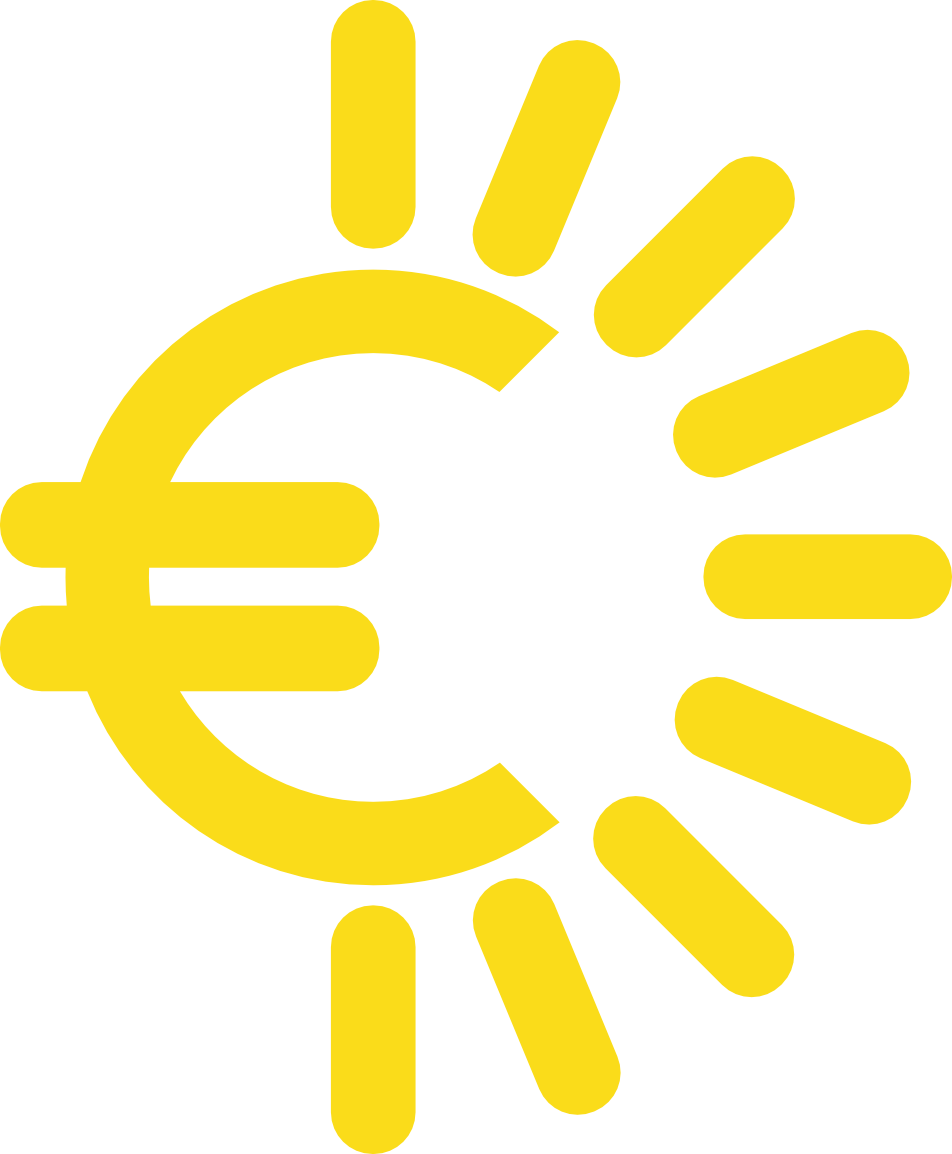
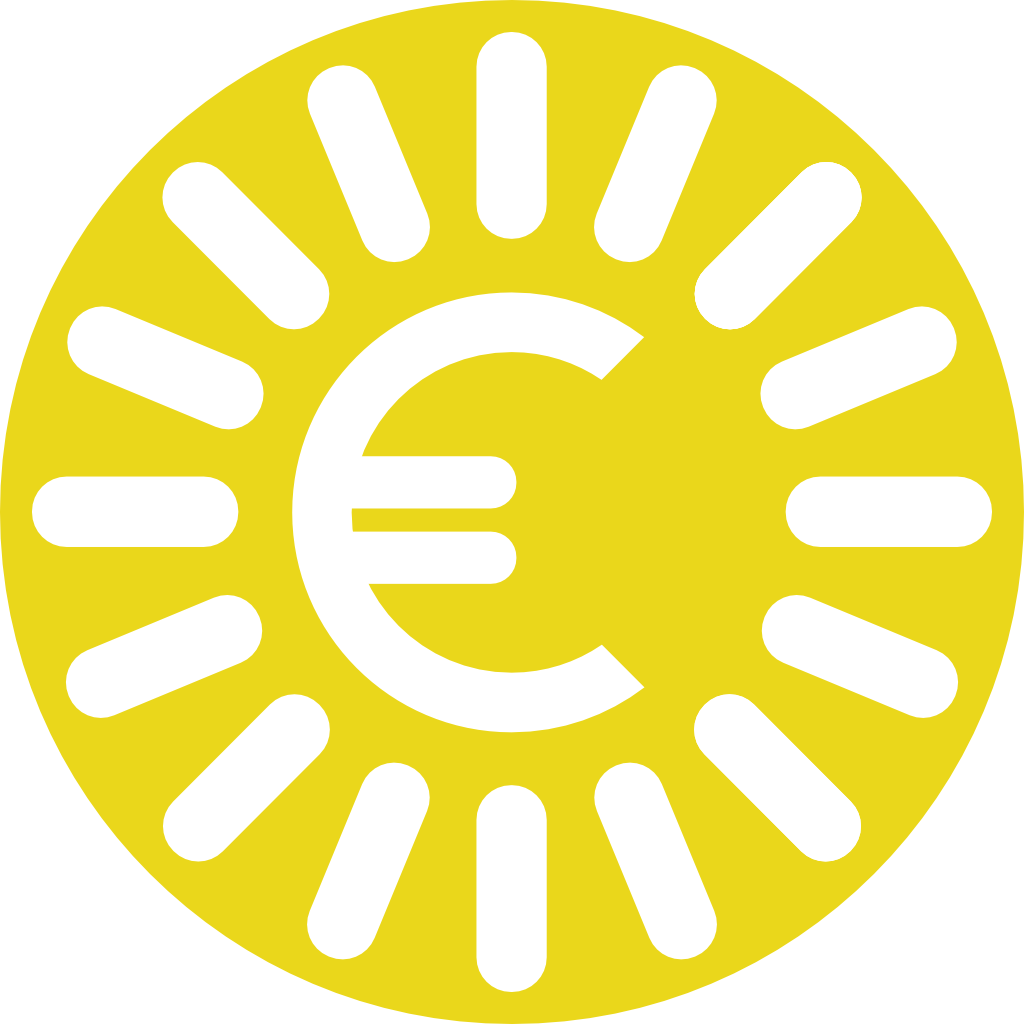
Neue Entities Namen korrigiert auf Gestern

diff --git a/custom_components/solar_amortisation/sensor.py b/custom_components/solar_amortisation/sensor.py
@@ -56,9 +56,9 @@ def _progress(status: SiteStatus) -> float | None:
 
 SENSOR_DESCRIPTIONS: tuple[SolarSensorEntityDescription, ...] = (
     SolarSensorEntityDescription(
-        key="daily_return",
-        translation_key="daily_return",
-        fallback_name="Daily return",
+        key="daily_return_yesterday",
+        translation_key="daily_return_yesterday",
+        fallback_name="Daily return yesterday",
         native_unit_of_measurement=EUR,
         state_class=SensorStateClass.MEASUREMENT,
         suggested_display_precision=2,
@@ -118,54 +118,54 @@ SENSOR_DESCRIPTIONS: tuple[SolarSensorEntityDescription, ...] = (
         extra_attrs_fn=_forecast_attrs,
     ),
     SolarSensorEntityDescription(
-        key="pv_generation_today",
-        translation_key="pv_generation_today",
-        fallback_name="PV generation today",
+        key="pv_generation_yesterday",
+        translation_key="pv_generation_yesterday",
+        fallback_name="PV generation yesterday",
         native_unit_of_measurement=UnitOfEnergy.KILO_WATT_HOUR,
         state_class=SensorStateClass.MEASUREMENT,
         suggested_display_precision=2,
         value_fn=lambda status: _latest(status, "pv_generation_kwh"),
     ),
     SolarSensorEntityDescription(
-        key="self_consumed_pv_today",
-        translation_key="self_consumed_pv_today",
-        fallback_name="Self-consumed PV today",
+        key="self_consumed_pv_yesterday",
+        translation_key="self_consumed_pv_yesterday",
+        fallback_name="Self-consumed PV yesterday",
         native_unit_of_measurement=UnitOfEnergy.KILO_WATT_HOUR,
         state_class=SensorStateClass.MEASUREMENT,
         suggested_display_precision=2,
         value_fn=lambda status: _latest(status, "self_consumed_pv_kwh"),
     ),
     SolarSensorEntityDescription(
-        key="grid_import_today",
-        translation_key="grid_import_today",
-        fallback_name="Grid import today",
+        key="grid_import_yesterday",
+        translation_key="grid_import_yesterday",
+        fallback_name="Grid import yesterday",
         native_unit_of_measurement=UnitOfEnergy.KILO_WATT_HOUR,
         state_class=SensorStateClass.MEASUREMENT,
         suggested_display_precision=2,
         value_fn=lambda status: _latest(status, "grid_import_kwh"),
     ),
     SolarSensorEntityDescription(
-        key="grid_export_today",
-        translation_key="grid_export_today",
-        fallback_name="Grid export today",
+        key="grid_export_yesterday",
+        translation_key="grid_export_yesterday",
+        fallback_name="Grid export yesterday",
         native_unit_of_measurement=UnitOfEnergy.KILO_WATT_HOUR,
         state_class=SensorStateClass.MEASUREMENT,
         suggested_display_precision=2,
         value_fn=lambda status: _latest(status, "grid_export_kwh"),
     ),
     SolarSensorEntityDescription(
-        key="electricity_price_today",
-        translation_key="electricity_price_today",
-        fallback_name="Electricity price today",
+        key="electricity_price_yesterday",
+        translation_key="electricity_price_yesterday",
+        fallback_name="Electricity price yesterday",
         native_unit_of_measurement=EUR_PER_KWH,
         state_class=SensorStateClass.MEASUREMENT,
         suggested_display_precision=4,
         value_fn=lambda status: _latest(status, "electricity_price_eur_kwh"),
     ),
     SolarSensorEntityDescription(
-        key="feed_in_tariff_today",
-        translation_key="feed_in_tariff_today",
-        fallback_name="Feed-in tariff today",
+        key="feed_in_tariff_yesterday",
+        translation_key="feed_in_tariff_yesterday",
+        fallback_name="Feed-in tariff yesterday",
         native_unit_of_measurement=EUR_PER_KWH,
         state_class=SensorStateClass.MEASUREMENT,
         suggested_display_precision=4,

diff --git a/README.md b/README.md
@@ -1,4 +1,4 @@
-# Solar Amortisation for Home Assistant
+# Simple Solar Amortisation for Home Assistant
 
 Custom Home Assistant integration for tracking solar amortisation per site.
 